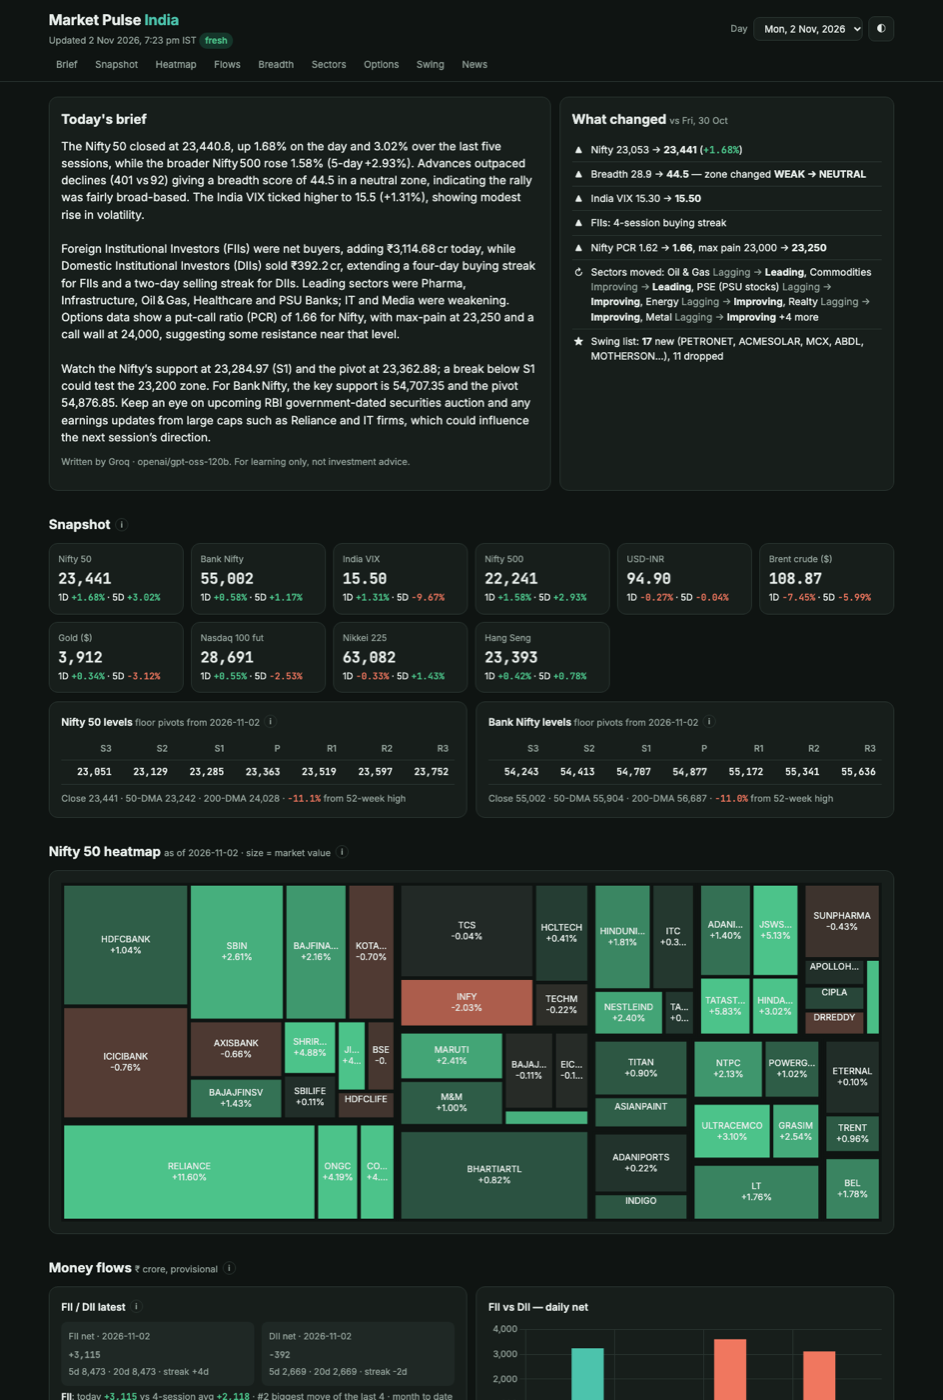
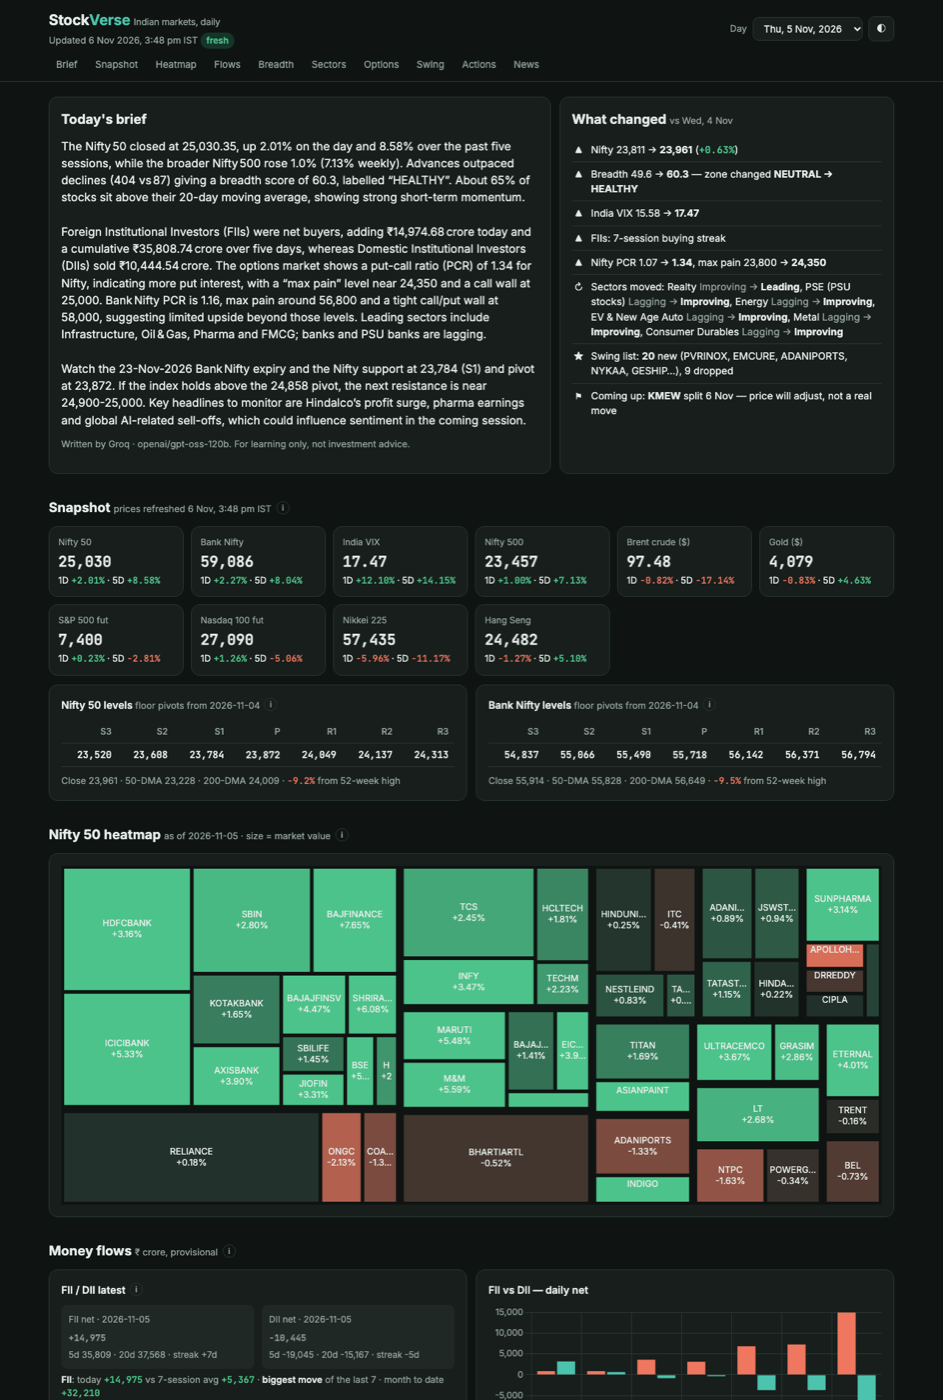
Rename to StockVerse; refresh morning prices only before the open
GitHub started the 8:30 AM run at 3:47 PM, which put 6 Nov intraday prices
into the 5 Nov page and its brief. Restored 5 Nov's prices from its full run.

diff --git a/site/index.html b/site/index.html
@@ -3,9 +3,10 @@
 <head>
   <meta charset="utf-8">
   <meta name="viewport" content="width=device-width, initial-scale=1">
-  <title>Market Pulse India</title>
+  <title>StockVerse — Indian market dashboard</title>
   <meta name="description" content="Free, self-updating dashboard for the Indian stock market: AI daily brief, FII/DII flows and F&O positioning, breadth, sector rotation, Nifty options and a Nifty 50 heatmap. For learning, not investment advice.">
-  <meta property="og:title" content="Market Pulse India — daily Indian stock market dashboard">
+  <meta property="og:title" content="StockVerse — daily Indian stock market dashboard">
+  <meta property="og:site_name" content="StockVerse">
   <meta property="og:description" content="AI daily brief, FII/DII flows, breadth, sector rotation, Nifty options and a Nifty 50 heatmap. Updated every trading day from free public data.">
   <meta property="og:type" content="website">
   <meta property="og:url" content="https://nishok-rajkumar.github.io/market-dashboard/">
@@ -23,7 +24,7 @@
   <header class="top">
     <div class="wrap top-row">
       <div>
-        <h1>Market Pulse <span class="accent">India</span></h1>
+        <h1>Stock<span class="accent">Verse</span> <span class="muted small">Indian markets, daily</span></h1>
         <p class="muted small" id="updated">Loading…</p>
       </div>
       <div class="controls">

diff --git a/site/app.js b/site/app.js
@@ -1,4 +1,4 @@
-// Market Pulse India — reads the JSON written by pipeline/run_daily.py and renders the page.
+// StockVerse — reads the JSON written by pipeline/run_daily.py and renders the page.
 // Served from GitHub Pages as /index.html + /data/…; locally from the repo root as /site/ + /data/.
 const DATA = location.pathname.includes("/site/") ? "../data/" : "data/";
 const $ = (id) => document.getElementById(id);

diff --git a/pipeline/run_daily.py b/pipeline/run_daily.py
@@ -185,7 +185,15 @@ def main() -> int:
             ok, msg = run(cmd)
             status[name] = {"ok": True} if ok else {"ok": False, "error": msg}
 
-    if args.mode == "morning" and (day / "pulse.json").exists():
+    # Only before the open: later in the day the prices belong to a new session, not to this folder's
+    # (GitHub has started the 8:30 AM run as late as 3:47 PM).
+    if args.mode == "morning" and (now.weekday() >= 5 or now.hour < 9):
+        pre_open = True
+    else:
+        pre_open = False
+        if args.mode == "morning":
+            print(f"skip snapshot: {now:%H:%M} IST is after the open; refreshing news and brief only")
+    if args.mode == "morning" and pre_open and (day / "pulse.json").exists():
         ok, msg = run([ROOT / "pipeline" / "snapshot.py", "--pulse", day / "pulse.json"])
         status["snapshot"] = {"ok": True} if ok else {"ok": False, "error": msg}
 

diff --git a/README.md b/README.md
@@ -1,4 +1,4 @@
-# Market Pulse India 📈
+# StockVerse 📈
 
 **A free, self-updating dashboard for the Indian stock market — built to learn how the market works.**
 Every trading day it collects NSE data, news and flows, has an open-source AI model write a plain-English brief,
@@ -6,7 +6,7 @@ and publishes everything as a static website. No server, no subscription, no lap
 
 **Live:** https://nishok-rajkumar.github.io/market-dashboard/
 
-![Market Pulse India dashboard](docs/screenshot.png)
+![StockVerse dashboard](docs/screenshot.png)
 
 > For learning only. Nothing here is investment advice or a buy/sell recommendation.
 
